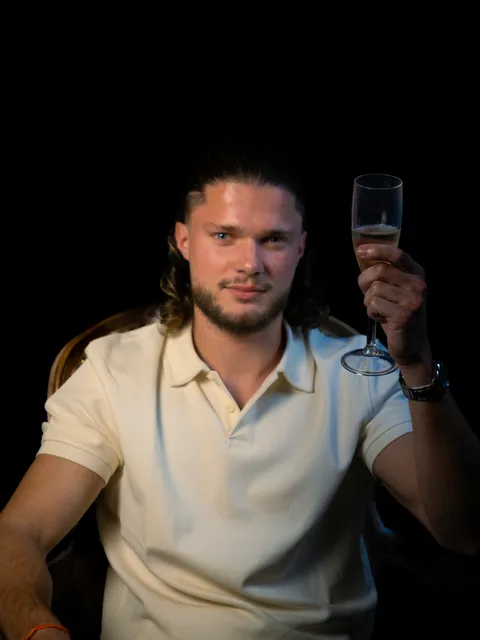
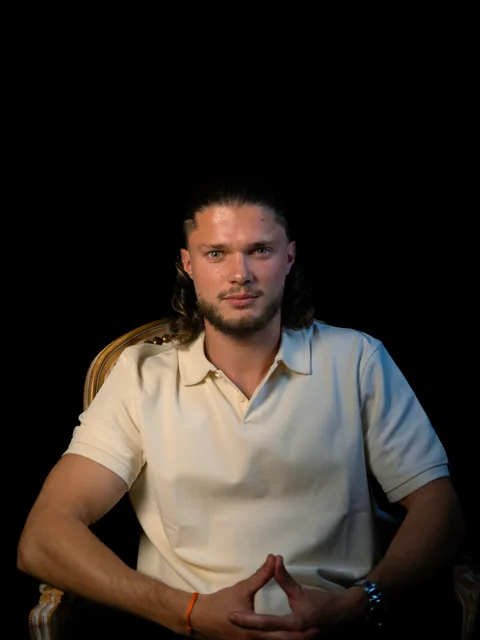
Photos equipe : ajustements (Voiron/Montbonnot/Grenoble)
- Voiron : Lily = portrait "Lisa2" ; Florence et Marlene retirees ; Diego en monogramme.
- Montbonnot : Manon retiree ; nouvelle photo de Jeremy (sans verre).
- Grenoble : Joanna retiree ; Coralie en monogramme.

diff --git a/src/data/voiron.ts b/src/data/voiron.ts
@@ -8,6 +8,7 @@ import type { SalonData } from './grenoble';
 import hero from '../assets/salons/voiron/hero.webp';
 import expertise from '../assets/salons/voiron/expertise.webp';
 import equipePlaceholder from '../assets/salons/grenoble/equipe-placeholder.webp'; // PROVISOIRE
+import lilyPhoto from '../assets/salons/voiron/equipe/lily.webp';
 import eqmy from '../assets/salons/voiron/equipe/emy.webp';
 import eqanu from '../assets/salons/voiron/equipe/manu.webp';
 import eqharlotte from '../assets/salons/voiron/equipe/charlotte.webp';
@@ -102,12 +103,10 @@ export const voiron: SalonData = {
   equipePlaceholder, // image provisoire pour tous tant qu'il n'y a pas de vrai portrait
   // Prénoms réels (site). Spécialités non communiquées → omises pour l'instant.
   equipe: [
-    { prenom: 'Lily' },
-    { prenom: 'Florence' },
+    { prenom: 'Lily', photo: lilyPhoto },
     { prenom: 'Emy', photo: eqmy },
     { prenom: 'Diego' },
     { prenom: 'Emmanuel', photo: eqanu },
-    { prenom: 'Marlène' },
     { prenom: 'Charlotte', photo: eqharlotte },
     { prenom: 'Lisa', photo: eqisa },
     { prenom: 'Sarah', photo: eqarah },

diff --git a/src/data/montbonnot.ts b/src/data/montbonnot.ts
@@ -117,7 +117,6 @@ export const montbonnot: SalonData = {
   equipePlaceholder, // image provisoire pour tous tant qu'il n'y a pas de vrai portrait
   // Équipe — prénoms réels (site). Spécialités PROVISOIRES (sauf Audrey, beauté du regard).
   equipe: [
-    { prenom: 'Manon', specialite: 'Coiffeuse' },
     { prenom: 'Lili Rose', specialite: 'Coiffeuse', photo: eqili },
     { prenom: 'Audrey', specialite: 'Beauté du regard', photo: equdrey },
     { prenom: 'Jeremy', specialite: 'Coiffeur Artiste', photo: eqeremy },

diff --git a/src/data/grenoble.ts b/src/data/grenoble.ts
@@ -240,7 +240,6 @@ export const grenoble: SalonData = {
     { prenom: 'Philippe', specialite: 'Coiffeur Artiste', photo: eqhilippe },
     { prenom: 'Coralie', specialite: 'Coloriste' },
     { prenom: 'Manon', specialite: 'Coiffeuse', photo: eqanon },
-    { prenom: 'Joanna', specialite: 'Head spa & soins' },
   ],
 
   // Avis — PLACEHOLDER (témoignages fictifs). À remplacer par les vrais avis Google :
